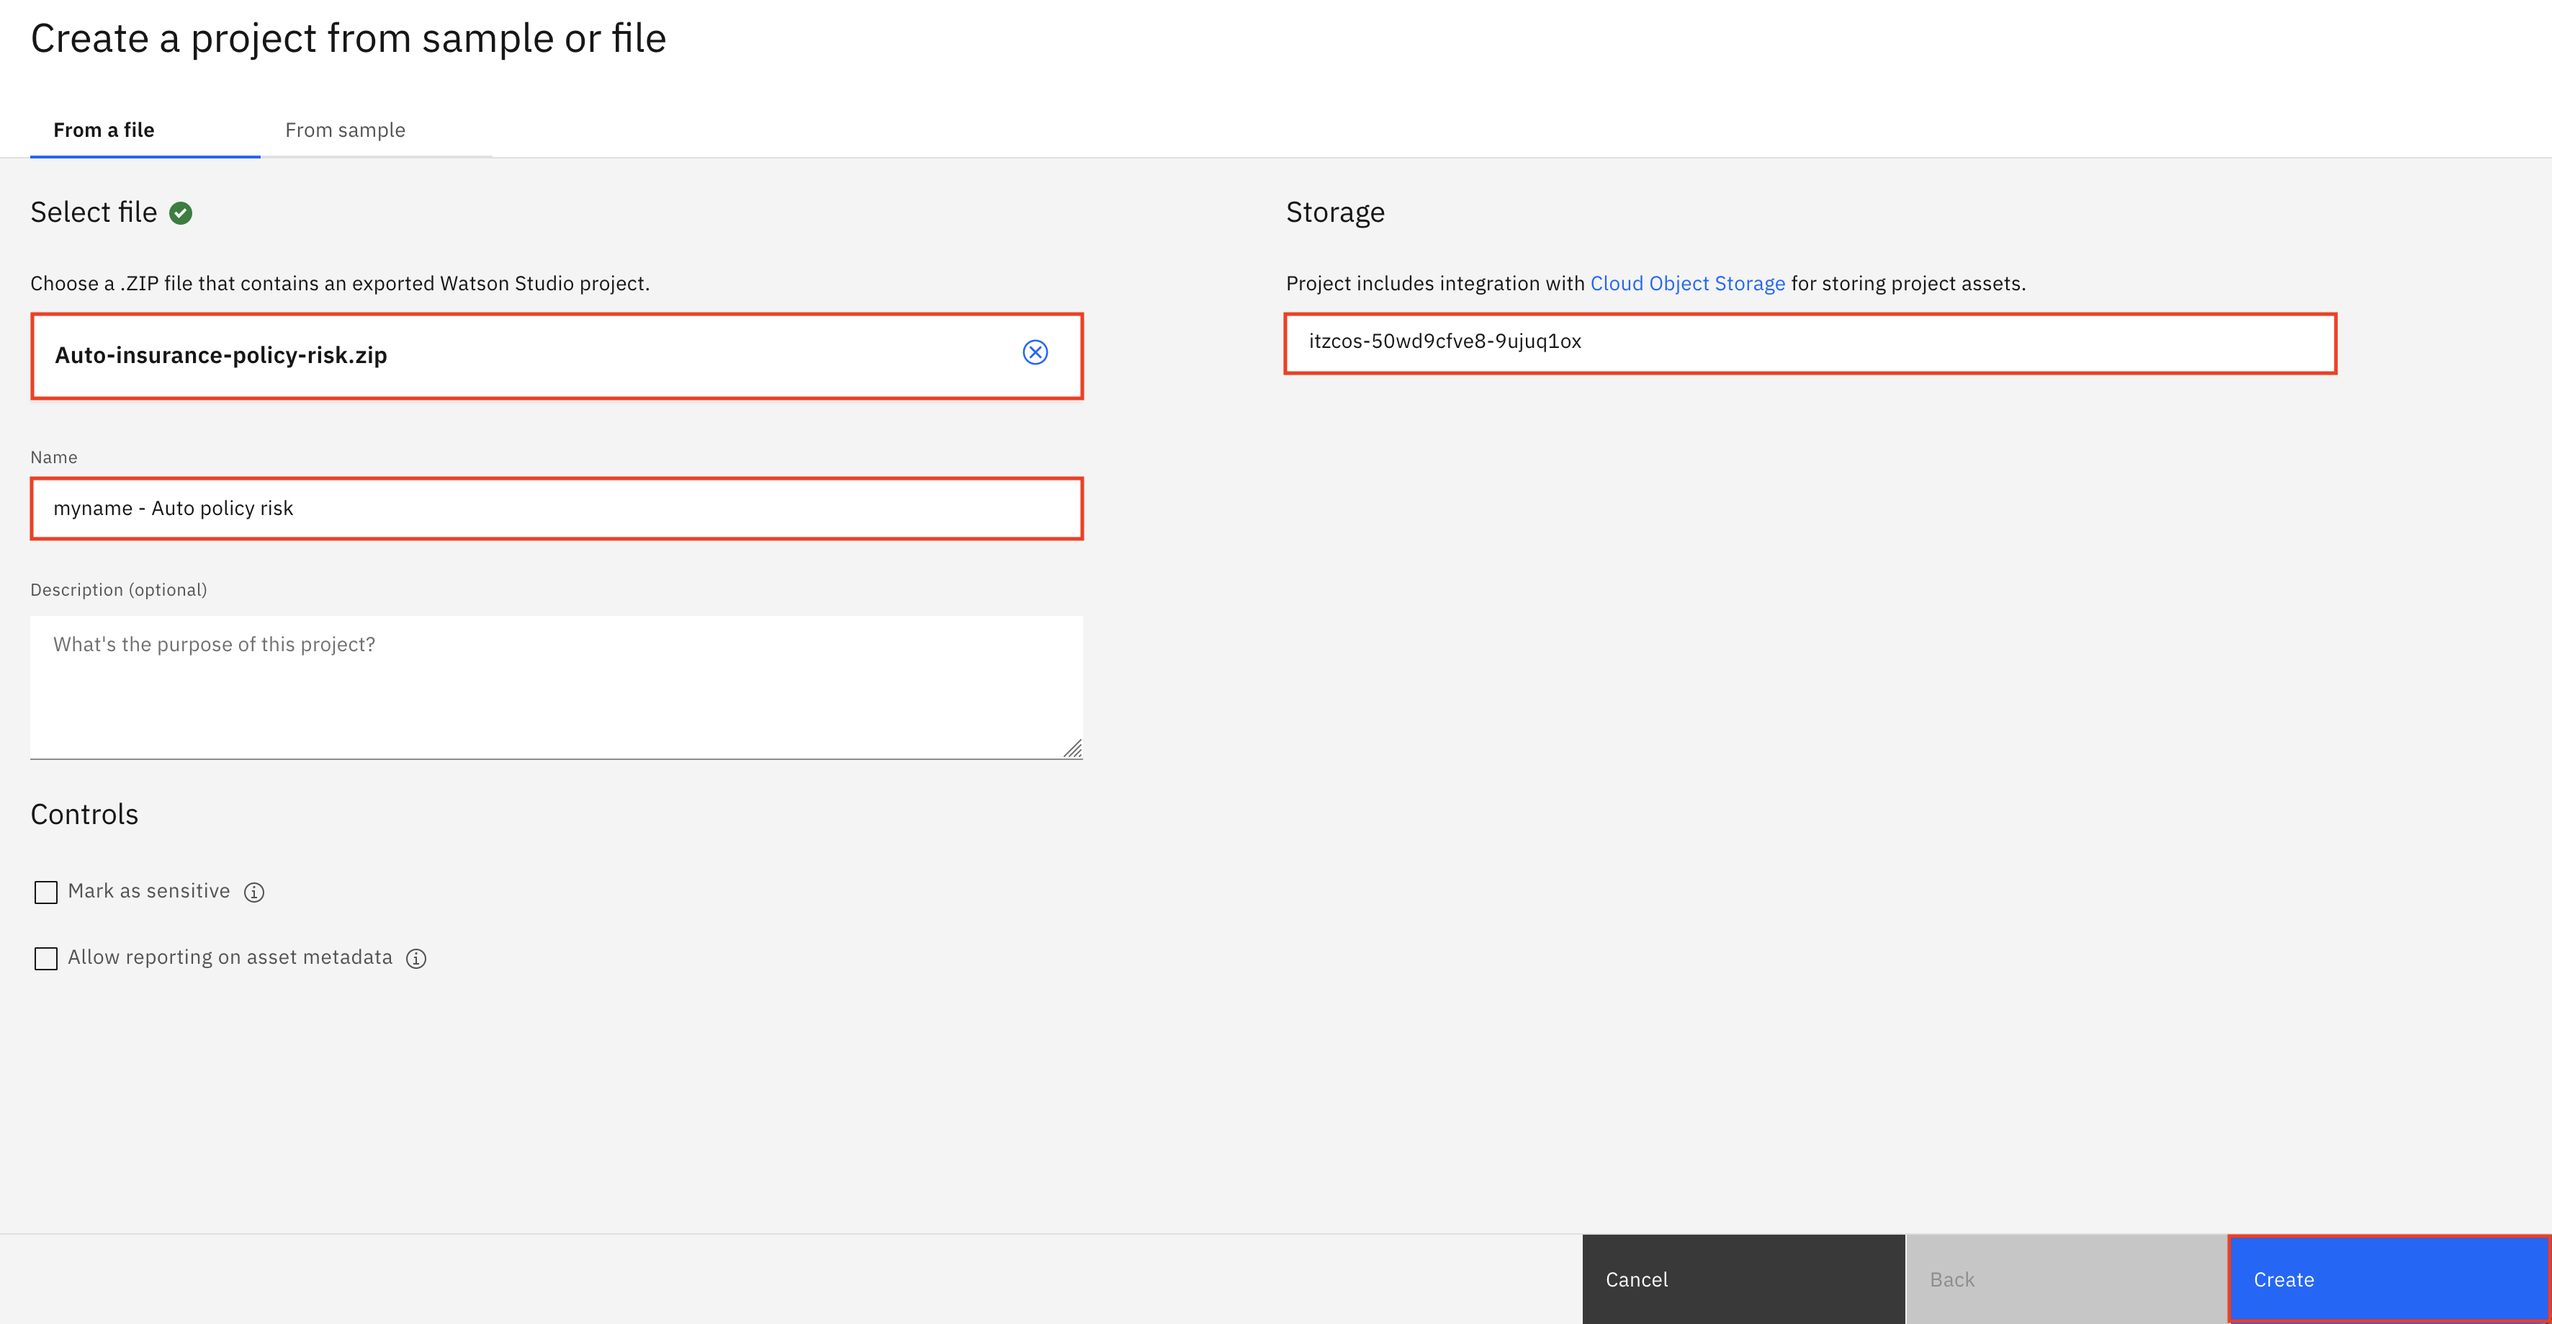
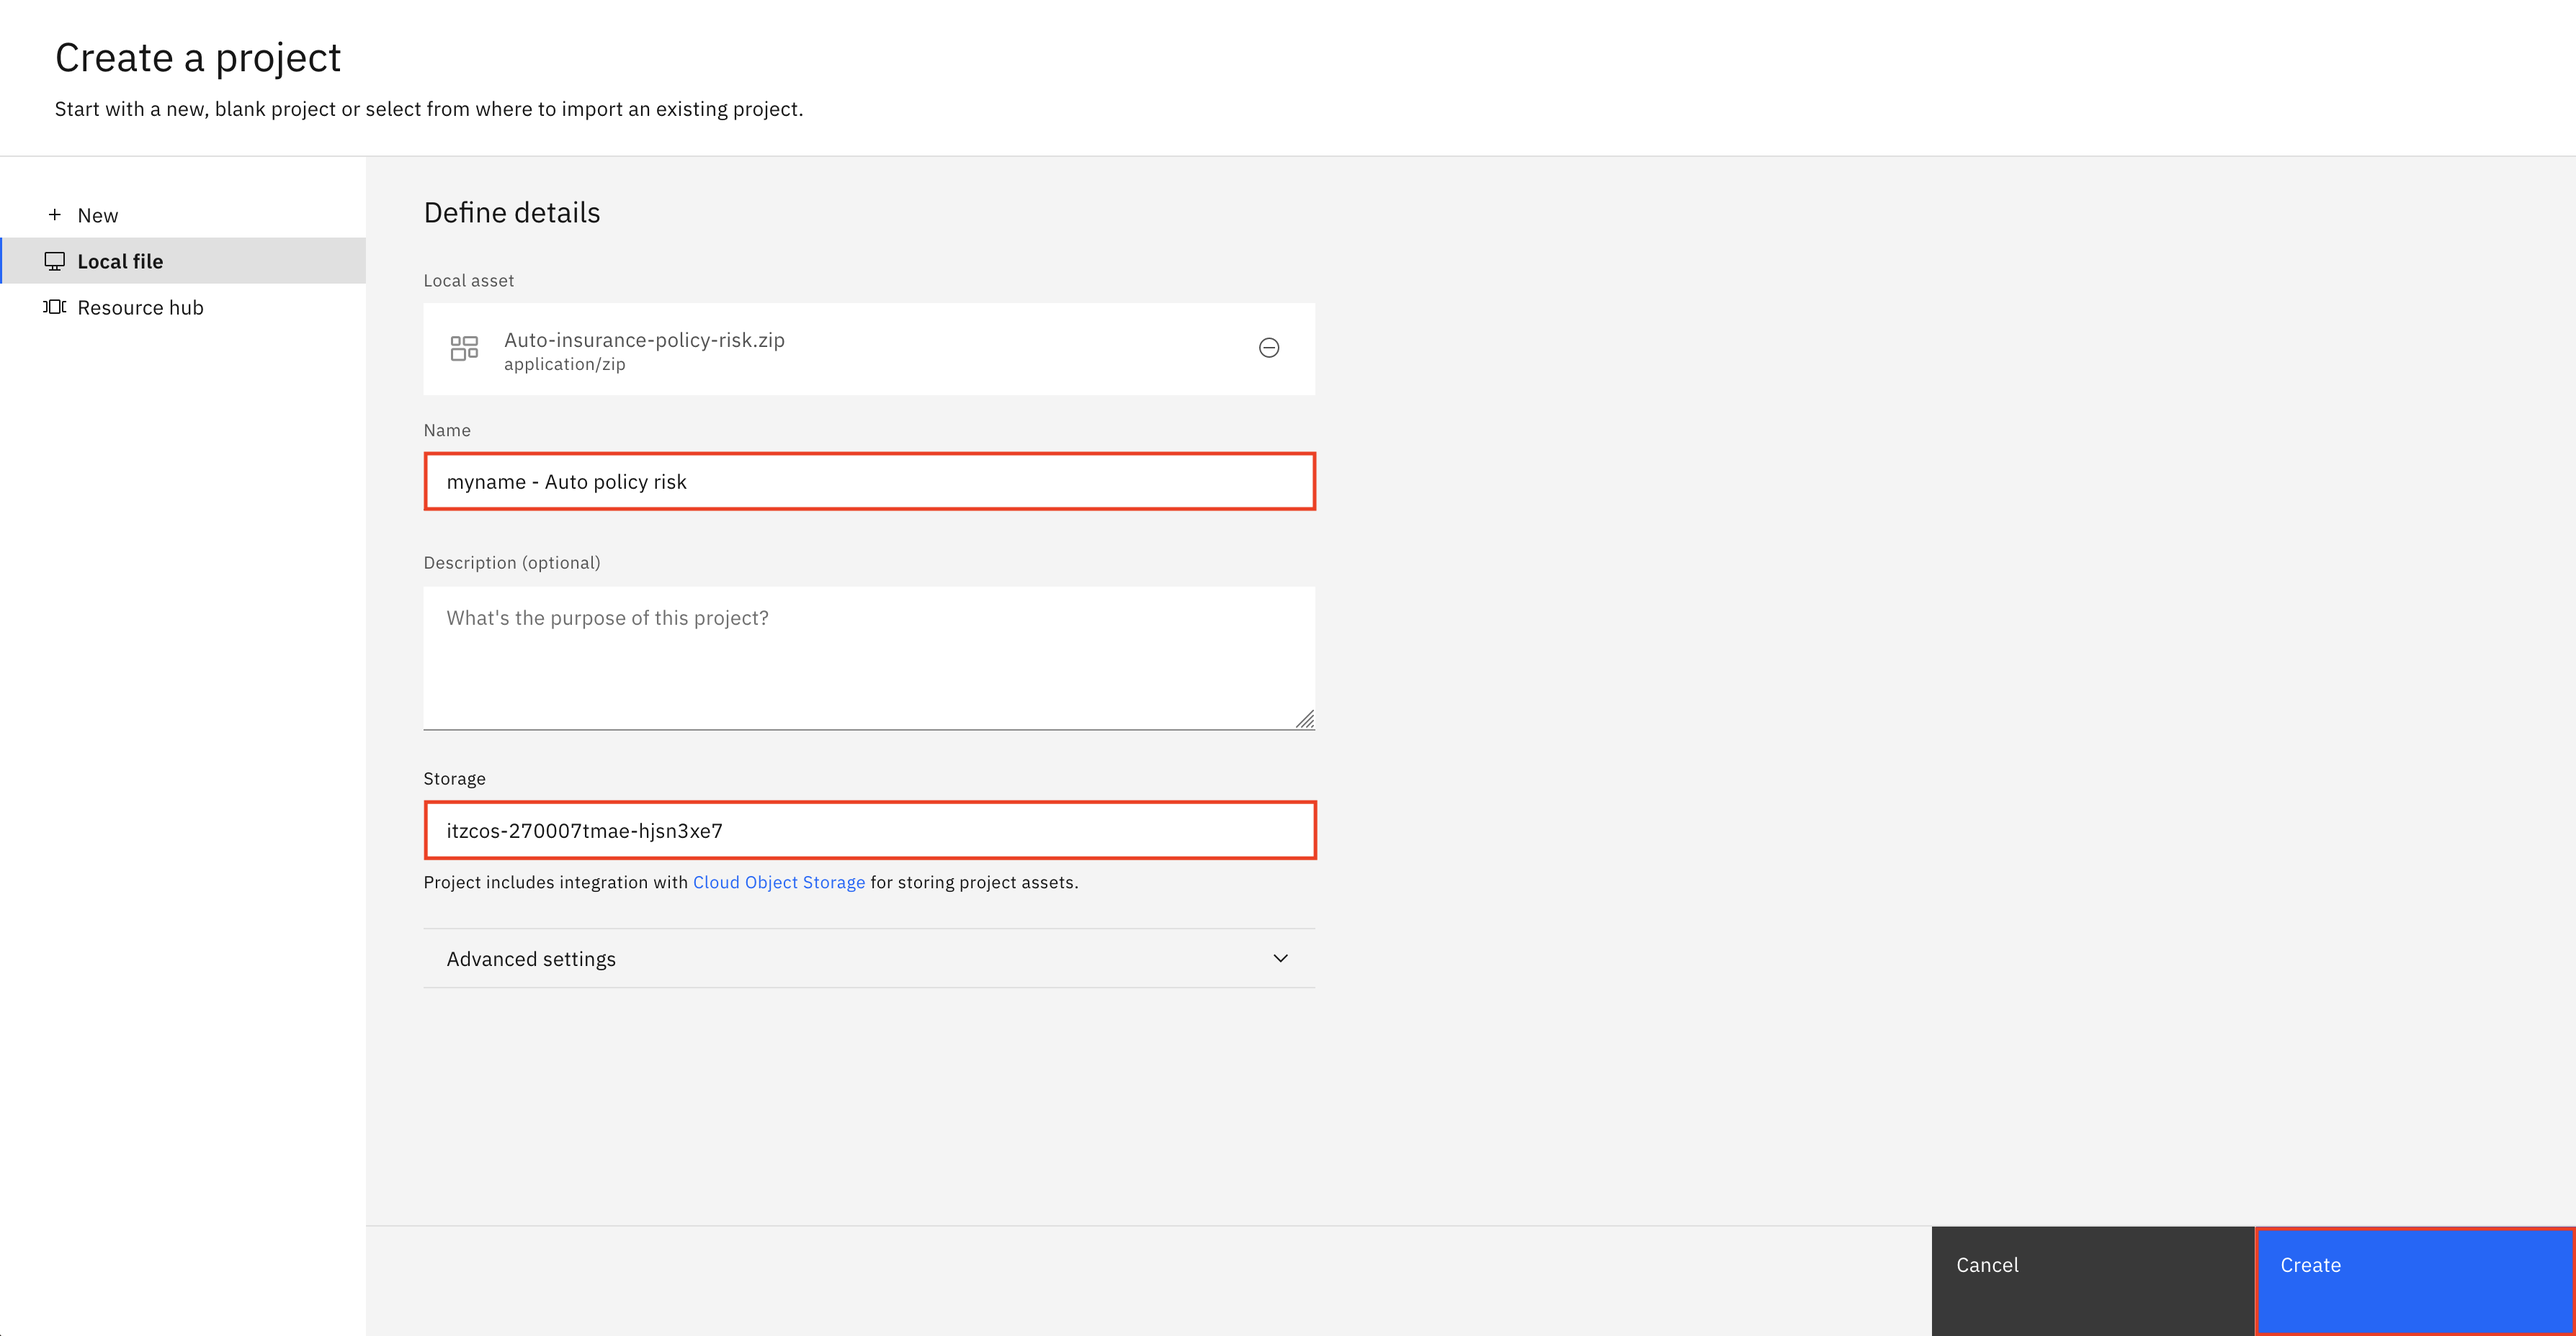
gov L3 lab updates

diff --git a/content/Watsonx/WatsonxGov/103.md b/content/Watsonx/WatsonxGov/103.md
@@ -23,11 +23,16 @@ In this lab, you will create an IBM watsonx.ai project that will contain all the
 
 ![](./images/103/navigation-menu-projects.png)
 
-3. Click the blue **New project** button on the right and then select the **Create a project from a sample or file** tile.
+3. Click the blue **New project** button on the right.
 
-4. In the **Create a project from sample or file** window fill out the information below and then press the **Create** button:
+![](./images/103/new-project.png)
 
-- **Upload file:** Browse to the **Auto-claim-summary.zip** project file you downloaded in step one and upload it.
+4. Select the **Local file** option in the **Create a project** window and press **Browse** and locate the **Auto-claim-summary.zip** project file you downloaded in step one and upload it.
+
+![](./images/103/create-project.png)
+
+5. Once the file has been uploaded, fill out the information below and then press the **Create** button:
+
 - **Name:** Give your project a name that includes some identifying information and the purpose it will be used for (ex. `<your initials or unique string> - Auto claim summary`).
 - **Select storage service:** Select a Cloud Object Storage instance to hold your project data.
 
@@ -69,11 +74,16 @@ In this lab, you will create an IBM watsonx.ai project that will contain all the
 
 ![](./images/103/navigation-menu-projects.png)
 
-3. Click the blue **New project** button on the right and then select the **Create a project from a sample or file** tile.
+3. Click the blue **New project** button on the right.
 
-4. In the **Create a project from sample or file** window fill out the information below and then press the **Create** button:
+![](./images/103/new-project.png)
 
-- **Upload file:** Browse to the **Auto-insurance-policy-risk.zip** project file you downloaded in step one and upload it.
+4. Select the **Local file** option in the **Create a project** window and press **Browse** and locate the **Auto-insurance-policy-risk.zip** project file you downloaded in step one and upload it.
+
+![](./images/103/create-project.png)
+
+5. Once the file has been uploaded, fill out the information below and then press the **Create** button:
+
 - **Name:** Give your project a name that includes some identifying information and the purpose it will be used for (ex. `<your initials or unique string> - Auto policy risk`).
 - **Select storage service:** Select a Cloud Object Storage instance to hold your project data.
 

diff --git a/content/Watsonx/WatsonxGov/104.md b/content/Watsonx/WatsonxGov/104.md
@@ -27,7 +27,7 @@ In this lab, you will configure model tracking for governing a **generative** AI
 
 ![](./images/104/generative-project-select.png)
 
-3. Click on the **Assets** tab of the project. From the list of assets, locate the **Insurance claim summarization** entry and click on the three dots to the right to expand the context menu. Click on **View AI factsheet** from the menu.
+3. Click on the **Assets** tab of the project. From the list of assets, locate the **Insurance claim summarization** entry and click on the three dots to the right to expand the context menu. Click on **Go to AI factsheet** from the menu.
 
 ![](./images/104/view-ai-factsheet.png)
 
@@ -81,7 +81,7 @@ In this lab, you will configure model tracking for governing a **predictive** AI
 
 ![](./images/104/view-model-info.png)
 
-4. In the **Track this model** section of the model information screen, click on the **Track this model** button.
+4. In the **Governance** section, click on the **Track in AI use case** button.
 
 ![](./images/104/track-this-model.png)
 
@@ -95,7 +95,7 @@ You have successfully configured model tracking for a **predictive** AI model.
 
 ### View the updated AI use case with the tracked model
 
-1. In the **Track this model** section of the model information screen, click on the **Open in AI use case** button.
+1. In the upper right corner of the **Governance** section, click the **View details** arrow to take you to your associated AI use case.
 
 ![](./images/104/open-in-ai-use-case.png)
 

diff --git a/content/Watsonx/WatsonxGov/102.md b/content/Watsonx/WatsonxGov/102.md
@@ -22,11 +22,13 @@ Use cases are collected as assets in a model inventory. Access to a model invent
 
 ![](./images/102/navigation-menu-use-case.png)
 
-3. Click on **Manage inventories**. The **Manage** screen will open.
+3. Click on the **Manage settings** gear icon. The **Manage** screen will open.
 
-![](./images/102/manage-inventories.png)
+![](./images/102/manage-settings.png)
 
-4. Click on **New inventory**.
+4. Select **Inventories** and then click the **New inventory** button.
+
+![](./images/102/new-inventory.png)
 
 5. Give your inventory a name that includes some identifying information and the purpose it will be used for (ex. `<your initials or unique string> - Auto Insurance`). In this case, your inventory will deal with auto insurance models. Use the **Object storage instance** dropdown to select your object storage service. Finally, click **Create** to create your inventory.
 

diff --git a/content/Watsonx/WatsonxGov/106.md b/content/Watsonx/WatsonxGov/106.md
@@ -31,7 +31,7 @@ In this lab, you will evaluate a **generative** AI model using the **Generative 
 
   ![](./images/106/select-generative-deployment.png)
 
-5. Click on the **Evaluations** tab of the deployment information screen and then click the **Activate** button to open the **Evaluate prompt template** window.
+5. Click on the **Evaluations** tab of the deployment information screen and then click the **Evaluate** button to open the **Evaluate prompt template** window.
 
   ![](./images/106/activate-generative-evaluation.png)
 
